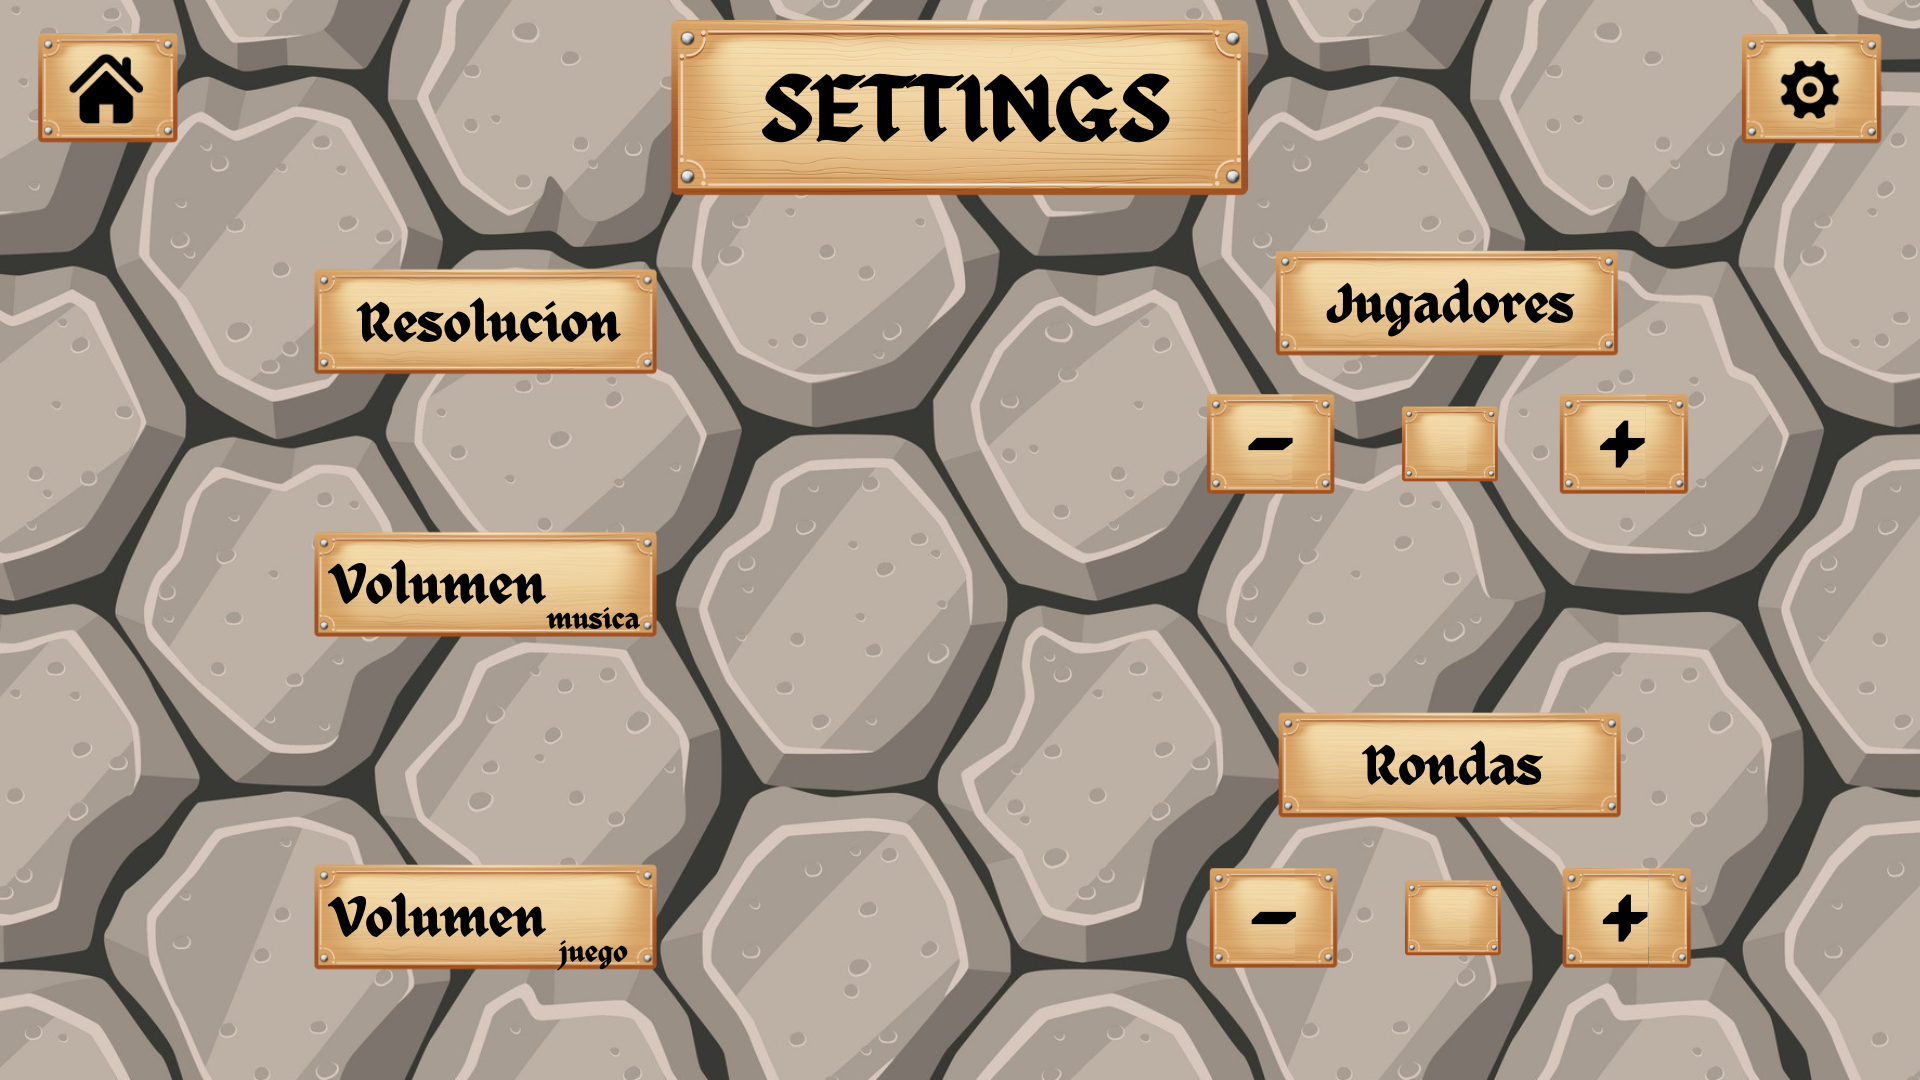
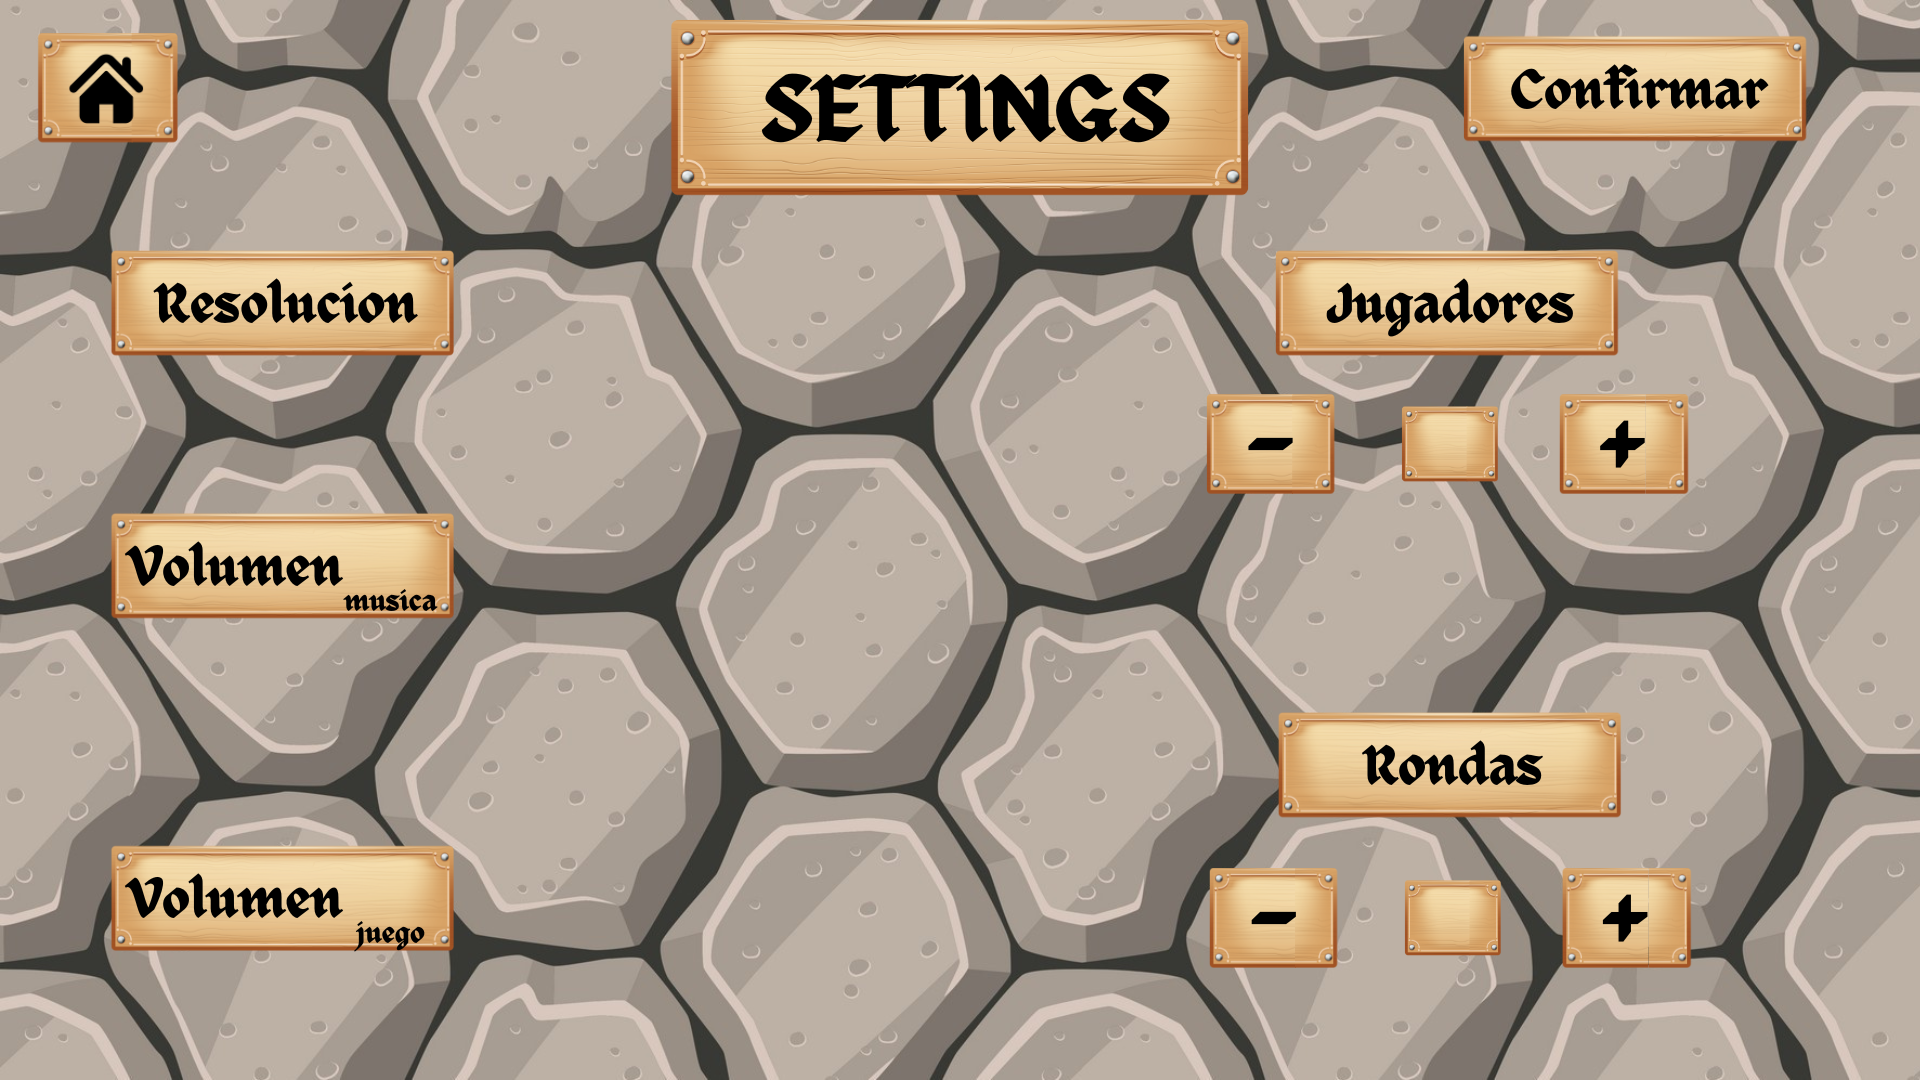
nuevas pestañas junto con el seteo de botones en todas (pantalla controles provisoria)

diff --git a/runDificultad.py b/runDificultad.py
@@ -1,0 +1,60 @@
+import pygame
+import sys
+import button
+
+def run_dificultad():
+    pygame.init()
+
+    x = 100
+    width, height = 16*x, 9*x
+    screen = pygame.display.set_mode((width, height))
+
+    dificultad_background = pygame.image.load('imgs/dificultad.png')  
+    dificultad_background = pygame.transform.scale(dificultad_background, (width, height))
+    screen.blit(dificultad_background, (0, 0))
+
+    clock = pygame.time.Clock()
+
+    home_button = button.Button((x*0.5 - 10, x*0.5 - 20, 100, 100), (255, 0, 0), 'Home', False)
+    confirmar_button = button.Button((width - x*3.5 - 20, height - x*1.25 - 50, x*3, x*0.75), (255, 255, 0), 'Confirmar', False)
+    facil_button = button.Button((width // 2 + x*0.5 - 290, height // 2 + 30, 120, 80), (0, 255, 0), 'Fácil', False)
+    normal_button = button.Button((width // 2 + x*0.5 - 100, height // 2 + 30, 120, 80), (0, 255, 0), 'Normal', False)
+    dificil_button = button.Button((width // 2 + x*0.5 + 85, height // 2 + 30, 120, 80), (0, 255, 0), 'Difícil', False)
+
+
+
+
+
+    buttons = [home_button, confirmar_button, facil_button, normal_button, dificil_button]
+
+    while True:
+        for event in pygame.event.get():
+            if event.type == pygame.QUIT:
+                pygame.quit()
+                sys.exit()
+
+        for btn in buttons:
+            if btn.check_click(event):
+                if btn.item == 'Home':
+                    print('Pantalla de inicio')
+                elif btn.item == 'Confirmar':
+                    print('Cerrar juego')
+                    pygame.quit()
+                    sys.exit()
+                elif btn.item == 'Fácil':
+                    print('Fácil')
+                elif btn.item == 'Normal':
+                    print('Normal')
+                elif btn.item == 'Difícil':
+                    print('Difícil')
+
+        # Dibuja un cuadrado alrededor de cada botón
+        square_color = (100, 100, 100)  
+        for btn in buttons:
+            pygame.draw.rect(screen, square_color, btn.rect, 2) 
+
+        pygame.display.flip()
+        clock.tick(60)
+
+if __name__ == "__main__":
+    run_dificultad()

diff --git a/runSettings.py b/runSettings.py
@@ -9,22 +9,21 @@ def run_settings():
     width, height = 16*x, 9*x
     screen = pygame.display.set_mode((width, height))
 
-    settings_background = pygame.image.load('settings.png')  
+    settings_background = pygame.image.load('imgs/settings.png')  
     settings_background = pygame.transform.scale(settings_background, (width, height))
     screen.blit(settings_background, (0, 0))
 
     clock = pygame.time.Clock()
 
     home_button = button.Button((x*0.5 - 10, x*0.5 - 20, 100, 100), (255, 0, 0), 'Home', False)
-    settings_button = button.Button((width - x*1.5 +15, x*0.5 - 25, 100, 100), (255, 0, 0), 'Settings', False)
+    confirmar_button = button.Button((width - x*1.5 - 250, x*0.5 - 25, 300, 100), (255, 0, 0), 'Settings', False)
     mas_player_button = button.Button((width // 2 + 510, height // 2 - 120, 100, 75), (0, 255, 0), 'MasPlayer', False)
     menos_player_button = button.Button((width // 2 + 210, height // 2 - 120, 100, 75), (0, 255, 0), 'MenosPlayer', False)
-
     mas_ronda_button = button.Button((width // 2 + 510, height // 2 + 275, 100, 75), (0, 255, 0), 'MasRonda', False)
     menos_ronda_button = button.Button((width // 2 + 210, height // 2 + 275, 100, 75), (0, 255, 0), 'MenosRonda', False)
 
 
-    buttons = [home_button, settings_button, mas_player_button, menos_player_button, mas_ronda_button, menos_ronda_button]
+    buttons = [home_button, confirmar_button, mas_player_button, menos_player_button, mas_ronda_button, menos_ronda_button]
 
     while True:
         for event in pygame.event.get():
@@ -39,7 +38,7 @@ def run_settings():
                     pygame.quit()
                     sys.exit()
                 elif btn.item == 'Settings':
-                    print('boton config')
+                    print('confirmar')
                     pygame.quit()
                     sys.exit()
                 elif btn.item == 'MasPlayer':

diff --git a/runSettingsPause.py b/runSettingsPause.py
@@ -1,0 +1,49 @@
+import pygame
+import sys
+import button
+
+def run_settings():
+    pygame.init()
+
+    x = 100
+    width, height = 16*x, 9*x
+    screen = pygame.display.set_mode((width, height))
+
+    settings_background = pygame.image.load('imgs/settingspause.png')  
+    settings_background = pygame.transform.scale(settings_background, (width, height))
+    screen.blit(settings_background, (0, 0))
+
+    clock = pygame.time.Clock()
+
+    home_button = button.Button((x*0.5 - 10, x*0.5 - 20, 100, 100), (255, 0, 0), 'Home', False)
+    confirmar_button = button.Button((width - x*1.5 - 250, x*0.5 + 650, 300, 100), (255, 0, 0), 'Settings', False)
+
+    buttons = [home_button, confirmar_button]
+
+    while True:
+        for event in pygame.event.get():
+            if event.type == pygame.QUIT:
+                pygame.quit()
+                sys.exit()
+
+        for btn in buttons:
+            if btn.check_click(event):
+                if btn.item == 'Home':
+                    print('boton home')
+                    pygame.quit()
+                    sys.exit()
+                elif btn.item == 'Settings':
+                    print('confirmar')
+                    pygame.quit()
+                    sys.exit()                    
+
+        # Dibuja un cuadrado alrededor de cada botón
+        square_color = (100, 100, 100)  
+        for btn in buttons:
+            pygame.draw.rect(screen, square_color, btn.rect, 2) 
+
+        pygame.display.flip()
+        clock.tick(60)
+
+if __name__ == "__main__":
+    run_settings()

diff --git a/runControles.py b/runControles.py
@@ -1,0 +1,44 @@
+import pygame
+import sys
+import button
+
+def run_settings():
+    pygame.init()
+
+    x = 100
+    width, height = 16*x, 9*x
+    screen = pygame.display.set_mode((width, height))
+
+    settings_background = pygame.image.load('imgs/controles.png')  
+    settings_background = pygame.transform.scale(settings_background, (width, height))
+    screen.blit(settings_background, (0, 0))
+
+    clock = pygame.time.Clock()
+
+    home_button = button.Button((x*0.5 - 10, x*0.5 - 20, 100, 100), (255, 0, 0), 'Home', False)
+
+    buttons = [home_button]
+
+    while True:
+        for event in pygame.event.get():
+            if event.type == pygame.QUIT:
+                pygame.quit()
+                sys.exit()
+
+        for btn in buttons:
+            if btn.check_click(event):
+                if btn.item == 'Home':
+                    print('boton home')
+                    pygame.quit()
+                    sys.exit()                   
+
+        # Dibuja un cuadrado alrededor de cada botón
+        square_color = (100, 100, 100)  
+        for btn in buttons:
+            pygame.draw.rect(screen, square_color, btn.rect, 2) 
+
+        pygame.display.flip()
+        clock.tick(60)
+
+if __name__ == "__main__":
+    run_settings()

diff --git a/runGanador1.py b/runGanador1.py
@@ -9,7 +9,7 @@ def run_ganador1():
     width, height = 16*x, 9*x
     screen = pygame.display.set_mode((width, height))
 
-    ganador1_background = pygame.image.load('ganador1.png')  
+    ganador1_background = pygame.image.load('imgs/ganador1.png')  
     ganador1_background = pygame.transform.scale(ganador1_background, (width, height))
     screen.blit(ganador1_background, (0, 0))
 
